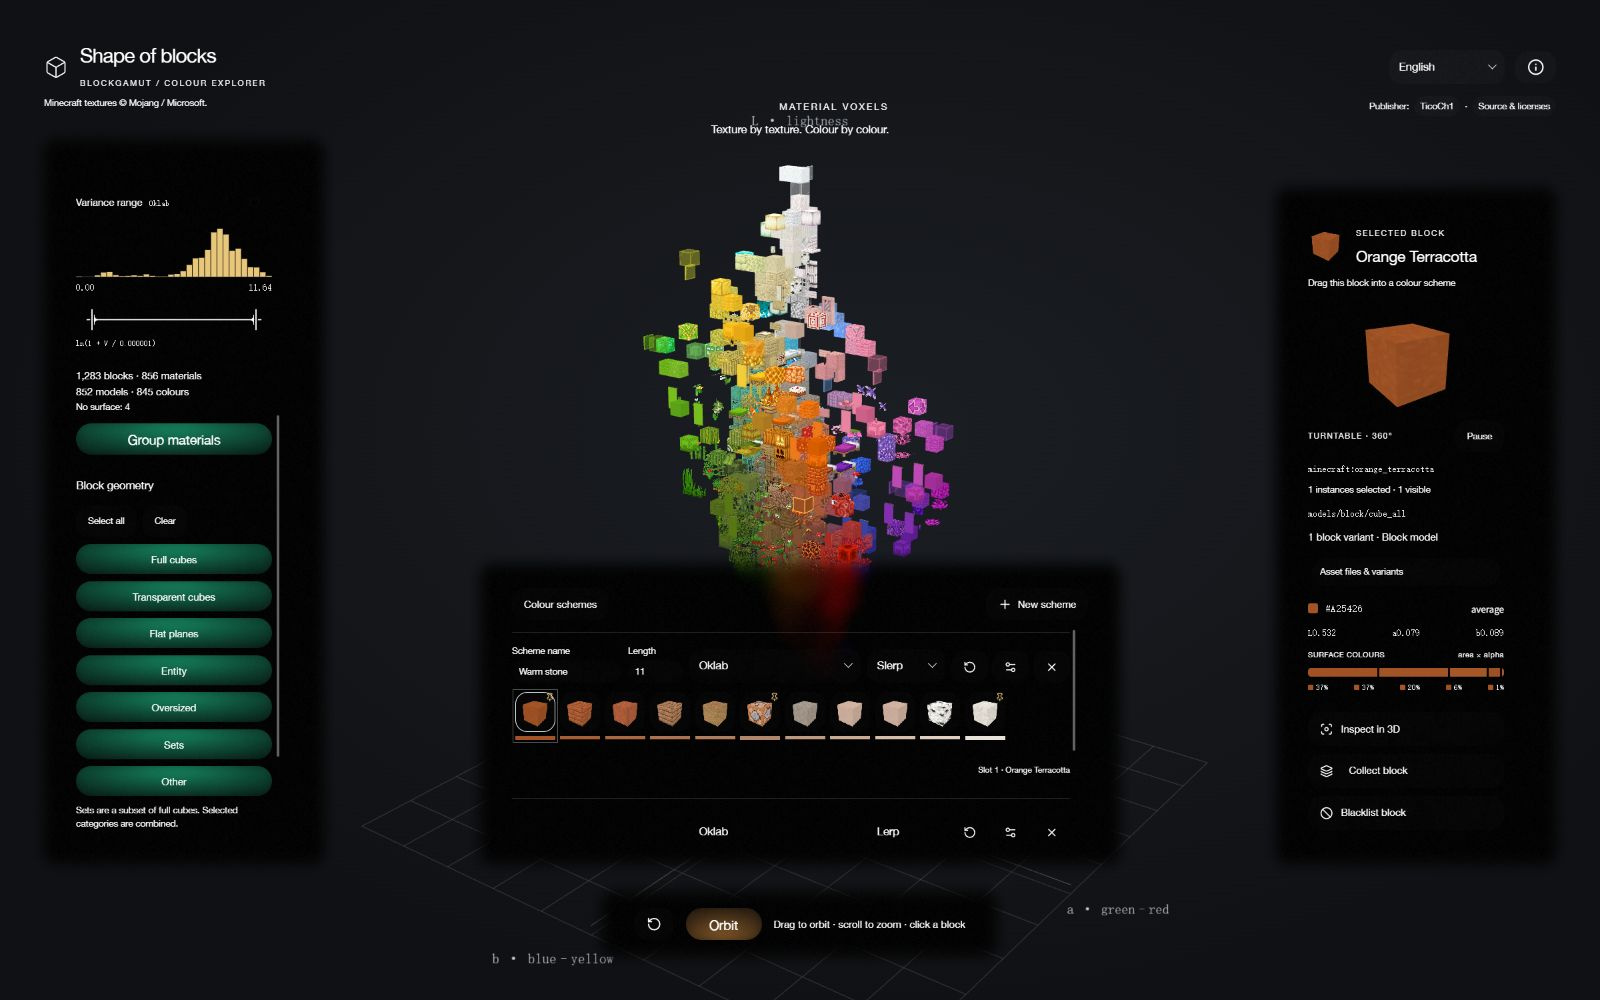
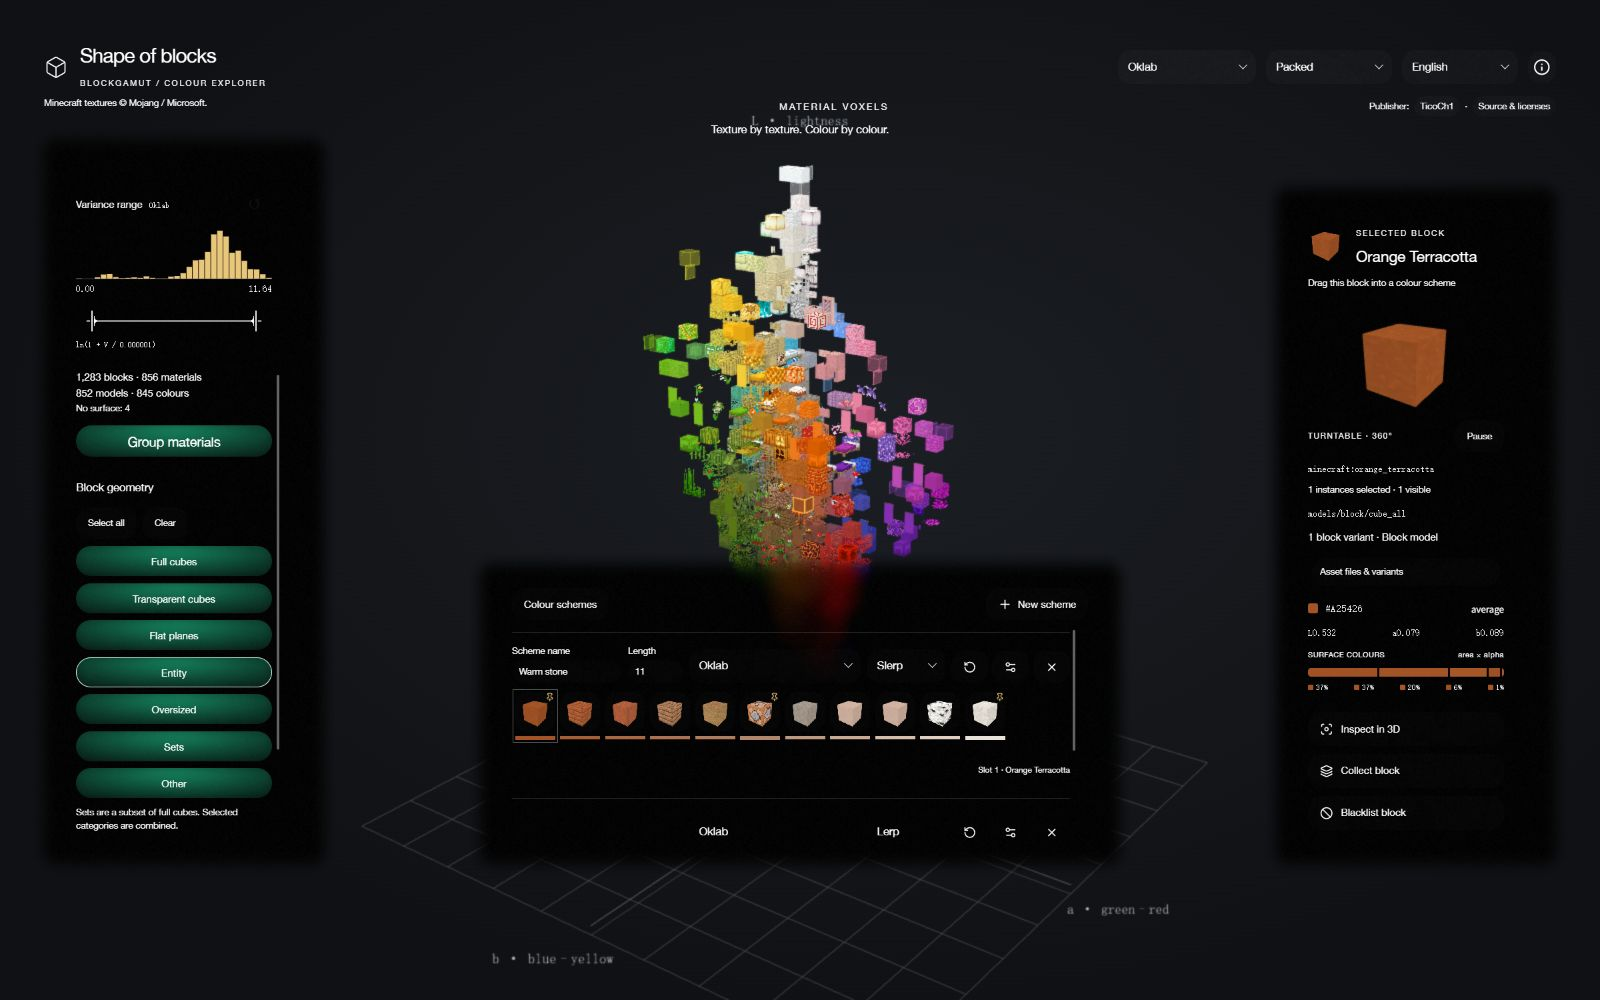
Move atlas selectors into header and remove camera toolbar

diff --git a/src/style.css b/src/style.css
@@ -26,7 +26,7 @@ html,body,#atlas,[data-form-glass-root]{height:100%;width:100%;margin:0}body{ove
 .surface-mixture{margin:12px 0}.mixture-label{display:flex;justify-content:space-between;gap:8px;font-size:7px;letter-spacing:.6px;color:var(--muted)}.mixture-strip{display:flex;gap:2px;height:9px;margin:8px 0 6px;border-radius:3px;overflow:hidden}.mixture-values{display:flex;justify-content:space-between;font:8px monospace;color:var(--muted)}.mixture-values span{display:flex;align-items:center;gap:3px}.mixture-values i{width:5px;height:5px;border-radius:1px}
 .air-symbol{height:100px;display:grid;place-items:center;color:var(--muted);font:12px monospace}
 .view-caption{position:absolute;top:96px;left:50%;transform:translateX(-50%);pointer-events:none;text-align:right}.view-caption>span{font-size:9px;letter-spacing:2px;color:var(--muted)}.view-caption p{font-size:11px;color:var(--muted);margin:8px 0}
-.view-dock{position:absolute!important;bottom:var(--gutter);left:50%;transform:translateX(-50%);display:flex;align-items:center;gap:12px;padding:16px 32px!important;white-space:nowrap;z-index:25}.view-dock>span{font-size:10px;color:var(--muted)}
+
 .scene-error,.empty-scene{position:absolute;left:30%;right:25%;top:45%;text-align:center;font-size:13px;line-height:2}.empty-scene button{margin-top:15px}.motion-notice{position:absolute;bottom:125px;left:50%;transform:translateX(-50%);font:10px monospace;color:#b8c4ce;text-align:center;pointer-events:none}
 .notes-dialog h3{font-size:13px;font-weight:500;margin:20px 0 8px}.notes-dialog p{font-size:12px;line-height:1.8;color:#bdc2ca;margin:10px 16px 10px 0}.notes-dialog .glass-link{font-size:11px;white-space:normal}
 .voxel-section-window{--section-height:min(420px,calc(100dvh - 240px));z-index:40;width:min(330px,calc(100dvw - 2 * var(--form-glass-outset,42px) - 16px));box-sizing:border-box;padding:32px!important}
@@ -38,8 +38,8 @@ html,body,#atlas,[data-form-glass-root]{height:100%;width:100%;margin:0}body{ove
 /* Intrinsic translations retain stable action widths. */
 .locale-label{display:inline-grid;vertical-align:middle;min-width:0;line-height:inherit;text-align:inherit}.locale-label>span{grid-area:1/1;min-width:0}.locale-label-size{visibility:hidden!important;pointer-events:none;user-select:none}.select-value>.locale-label{display:grid;width:100%}
 @media(max-height:800px) and (min-width:761px){.explorer{--controls-height:calc(100dvh - 340px);--inspector-height:calc(100dvh - 380px)}.turntable-viewport{height:90px}.panel-content{gap:7px}.inspector-content>.micro{display:none}}
-@media(max-width:1000px) and (min-width:761px){.control-panel,.block-inspector{width:250px}.view-dock>span{display:none}.brand h1{font-size:18px}}
-@media(max-width:760px){.explorer{--controls-height:max(88px,calc((100dvh - 508px) * .45));--inspector-height:max(88px,calc((100dvh - 508px) * .55))}.scene-header{align-items:start;gap:8px}.brand h1{font-size:16px}.brand span{font-size:6px;letter-spacing:.7px}.brand>svg{display:none}.header-actions{gap:6px}.language-control{width:100px}.project-notice{top:97px;font-size:7px;display:block}.project-notice>span:last-child{margin-top:3px}.project-notice .glass-link{font-size:7px}.control-panel{top:156px;left:var(--gutter);width:calc(100dvw - 2 * var(--gutter));padding:32px!important}.block-inspector{right:var(--gutter);bottom:140px;width:calc(100dvw - 2 * var(--gutter))}.panel-content,.inspector-content{padding-right:20px}.view-caption,.view-dock>span{display:none}.view-dock{gap:10px;padding:16px 32px!important}.turntable-viewport{height:90px}.empty-scene{top:53%;left:var(--gutter);right:var(--gutter);font-size:11px}.motion-notice{bottom:126px;max-width:220px;font-size:8px}.brand{max-width:135px}}
+@media(max-width:1000px) and (min-width:761px){.control-panel,.block-inspector{width:250px}.brand h1{font-size:18px}}
+@media(max-width:760px){.explorer{--controls-height:max(88px,calc((100dvh - 508px) * .45));--inspector-height:max(88px,calc((100dvh - 508px) * .55))}.scene-header{align-items:start;gap:8px}.brand h1{font-size:16px}.brand span{font-size:6px;letter-spacing:.7px}.brand>svg{display:none}.header-actions{gap:6px}.language-control{width:100px}.project-notice{top:97px;font-size:7px;display:block}.project-notice>span:last-child{margin-top:3px}.project-notice .glass-link{font-size:7px}.control-panel{top:156px;left:var(--gutter);width:calc(100dvw - 2 * var(--gutter));padding:32px!important}.block-inspector{right:var(--gutter);bottom:140px;width:calc(100dvw - 2 * var(--gutter))}.panel-content,.inspector-content{padding-right:20px}.view-caption{display:none}.turntable-viewport{height:90px}.empty-scene{top:53%;left:var(--gutter);right:var(--gutter);font-size:11px}.motion-notice{bottom:126px;max-width:220px;font-size:8px}.brand{max-width:135px}}
 
 /* One startup owner, with native texture cubes independent of WebGL resources. */
 .block-loader{position:fixed;inset:0;z-index:200;display:grid;place-items:center;background:radial-gradient(ellipse at 50% 44%,#20272a,#101316 65%);color:#e9ede8;padding:24px;box-sizing:border-box}
@@ -61,10 +61,10 @@ html,body,#atlas,[data-form-glass-root]{height:100%;width:100%;margin:0}body{ove
 .scheme-manager-heading{display:flex;justify-content:space-between;align-items:center;gap:8px}.scheme-manager-heading button{font-size:10px;gap:6px}.scheme-rows{padding:4px 18px 4px 0}.scheme-row{padding:12px 0;border-top:1px solid var(--line);margin-top:8px}.scheme-row-heading{display:flex;align-items:center;gap:6px;font-size:11px}.scheme-row-heading button{padding:6px;min-height:25px}
 .scheme-cells{display:flex;gap:5px;width:max-content;padding:9px 3px}.scheme-cell{width:40px;position:relative}.scheme-block>button{width:40px;height:40px;padding:4px;position:relative}.scheme-cell canvas{width:32px;height:32px;display:block;image-rendering:pixelated}.scheme-cell[data-selected=true]{outline:1px solid #ffffff60;outline-offset:2px}.scheme-cell[data-drop=true]{outline:1px solid #e8c67a;outline-offset:2px}.scheme-pin{position:absolute;right:1px;top:1px;color:#e8c67a}.scheme-target{height:3px;margin-top:4px;display:block}.scheme-row-actions{display:flex;align-items:center;gap:4px;flex-wrap:wrap}.scheme-row-actions button{font-size:8px;padding:5px 7px;min-height:25px}.scheme-row-actions>span{font-size:8px;color:var(--muted);margin-left:auto}.scheme-hint{font-size:9px;line-height:1.6;color:var(--muted);padding-right:18px;margin:5px 0}.scheme-settings-content{display:flex;flex-direction:column;gap:10px;padding-right:20px}.scheme-settings-content .glass-select{width:100%}
 @media(max-width:1100px) and (min-width:761px){.colour-schemes{width:calc(100dvw - 648px);min-width:220px;padding:24px!important}.scheme-manager-heading{flex-wrap:wrap}.scheme-manager-heading button{font-size:9px}.scheme-manager-heading span{display:none}}
-@media(max-width:760px){.colour-schemes{bottom:var(--gutter);width:calc(100dvw - 2 * var(--gutter));min-width:0;padding:16px 24px!important;--schemes-height:min(210px,calc(100dvh - 330px))}.view-dock{display:none}.scheme-manager-heading button{font-size:9px}.scheme-rows{padding-right:20px}.scheme-cell{width:36px}.scheme-block>button{width:36px;height:36px}.scheme-cell canvas{width:28px;height:28px}}
+@media(max-width:760px){.colour-schemes{bottom:var(--gutter);width:calc(100dvw - 2 * var(--gutter));min-width:0;padding:16px 24px!important;--schemes-height:min(210px,calc(100dvh - 330px))}.scheme-manager-heading button{font-size:9px}.scheme-rows{padding-right:20px}.scheme-cell{width:36px}.scheme-block>button{width:36px;height:36px}.scheme-cell canvas{width:28px;height:28px}}
 
-.scheme-mobile-orbit{display:none}
-@media(max-width:760px){.scheme-mobile-orbit{display:flex;gap:8px;align-items:center;margin-top:8px}.block-inspector{bottom:210px}.explorer{--controls-height:max(60px,calc((100dvh - 578px) * .45));--inspector-height:max(60px,calc((100dvh - 578px) * .55))}}
+
+@media(max-width:760px){.block-inspector{bottom:210px}.explorer{--controls-height:max(60px,calc((100dvh - 578px) * .45));--inspector-height:max(60px,calc((100dvh - 578px) * .55))}}
 
 .inspector-content>.drag-block-hint{display:block!important}.draggable-block{touch-action:none}
 
@@ -83,3 +83,9 @@ html,body,#atlas,[data-form-glass-root]{height:100%;width:100%;margin:0}body{ove
 .scheme-import{display:flex;align-items:center;gap:10px;margin:0 0 12px;font-size:11px}.scheme-import canvas{width:36px;height:36px;image-rendering:pixelated}.scheme-import small{display:block;margin-top:5px;font-size:9px;color:var(--muted)}
 
 @media(max-width:760px){.scheme-manager-dialog{padding:24px!important}.scheme-manager-dialog .form-glass-dialog-heading{gap:10px}.scheme-manager-dialog .form-glass-dialog-heading h2{font-size:18px}.scheme-manager-dialog .form-glass-dialog-heading button{font-size:10px;max-width:116px;min-width:0;white-space:normal}}
+
+/* Primary atlas choices live beside the language selector. */
+.atlas-controls{display:flex;align-items:center;gap:10px}.coordinate-control{width:138px}.arrangement-control{width:126px}.atlas-controls .glass-select{width:100%}
+.scene-header #notes-trigger{padding:6px 5px;min-width:28px}
+@media(max-width:1000px) and (min-width:761px){.header-actions,.atlas-controls{gap:8px}.coordinate-control{width:112px}.arrangement-control{width:104px}.language-control{width:100px}}
+@media(max-width:760px){.scene-header{display:grid;grid-template-columns:minmax(0,1fr) 90px 28px;gap:10px 8px;align-items:center}.header-actions{display:contents}.brand{grid-column:1;grid-row:1}.language-control{grid-column:2;grid-row:1;width:90px}#notes-trigger{grid-column:3;grid-row:1}.atlas-controls{grid-column:1/-1;grid-row:2;gap:8px}.coordinate-control,.arrangement-control{width:0;flex:1;min-width:0}.project-notice{top:150px}.control-panel{top:206px}.block-inspector{bottom:180px}.explorer{--controls-height:max(60px,calc((100dvh - 608px) * .45));--inspector-height:max(60px,calc((100dvh - 608px) * .55))}}

diff --git a/src/App.tsx b/src/App.tsx
@@ -10,7 +10,7 @@ import {LocaleLabel,useLocale,type Locale} from './i18n';
 import chineseNames from './blockNames.zh-CN.json';
 import {useCallback,useDeferredValue,useEffect,useMemo,useState} from 'react';
 import {GlassPanel,GlassButton,GlassLink,GlassInput,GlassProvider,GlassSelect,GlassSwitch,GlassScrollArea,GlassDialog,GlassDisclosure} from '@form-glass/react';
-import {Box,Check,ChevronRight,Info,Layers3,RotateCcw,Focus,Ban} from 'lucide-react';
+import {Box,Check,ChevronRight,Info,Layers3,Focus,Ban} from 'lucide-react';
 import {filterBlocks,groupMaterials,samplesFor,materialVariance} from './color.mjs';
 import {Scene} from './Scene';
 import {Turntable} from './Turntable';
@@ -37,7 +37,7 @@ export function App(){
 
  const [grouped,setGrouped]=useState(true),[focus,setFocus]=useState(0),[assetDetails,setAssetDetails]=useState(false);
  const [categories,setCategories]=useState<string[]>([...allModelClasses]),[category,setCategory]=useState('all'),[query,setQuery]=useState(''),[face,setFace]=useState('average'),[opaque,setOpaque]=useState(false),[tinted,setTinted]=useState(true);
- const [space,setSpace]=useState<Space>('oklab'),[variance,setVariance]=useState(false),[rotate,setRotate]=useState(false),[reset,setReset]=useState(0);
+ const [space,setSpace]=useState<Space>('oklab'),[variance,setVariance]=useState(false),[rotate,setRotate]=useState(false);
  const [schemeSelection,setSchemeSelection]=useState(false);
  const [selected,setSelected]=useState('minecraft:orange_terracotta'),[collection,setCollection]=useState<string[]>([]),[blacklist,setBlacklist]=useState<string[]>([]);
  const [varianceRanges,setVarianceRanges]=useState<Partial<Record<Space,[number,number]>>>({});
@@ -77,14 +77,13 @@ export function App(){
  const bootStage=!catalog||!resources?'Loading Minecraft release materials…':'Placing blocks in colour space…';
  return view(<GlassProvider theme="dark" refractionEnabled={false}>
   <main className="explorer" aria-hidden={booting} {...(booting?{inert:''} as any:{})}>
-   <div className="world-view"><Scene catalogReady={!!catalog} onReady={reportReady} onStartupError={setSceneError} arrangement={arrangement} voxelSection={voxelSection} onVoxelData={setVoxelData} samples={samples} space={space} variance={variance} hull={false} reference={false} rotate={rotate} slice={false} lightness={.65} resources={resources} assetError={assetError} selected={sceneActive?.id||''} reset={reset} focus={focus} onSelect={pick} onRotateStop={stopOrbit} onModelStats={setModelStats}/></div>
-   <header className="scene-header"><div className="brand"><Box size={24} strokeWidth={1.2}/><div><h1>Shape of blocks</h1><span>BLOCKGAMUT / COLOUR EXPLORER</span></div></div><div className="header-actions"><div className="language-control"><GlassSelect label="Language" value={locale} onChange={v=>setLocale(v as Locale)} options={[{value:"en",label:"English"},{value:"zh-CN",label:"简体中文"}]}/></div><GlassButton id="notes-trigger" aria-expanded={help} aria-haspopup="dialog" aria-label="About the data and method" onClick={()=>setHelp(true)}><Info size={17}/></GlassButton></div></header>
+   <div className="world-view"><Scene catalogReady={!!catalog} onReady={reportReady} onStartupError={setSceneError} arrangement={arrangement} voxelSection={voxelSection} onVoxelData={setVoxelData} samples={samples} space={space} variance={variance} hull={false} reference={false} rotate={rotate} slice={false} lightness={.65} resources={resources} assetError={assetError} selected={sceneActive?.id||''} reset={0} focus={focus} onSelect={pick} onRotateStop={stopOrbit} onModelStats={setModelStats}/></div>
+   <header className="scene-header"><div className="brand"><Box size={24} strokeWidth={1.2}/><div><h1>Shape of blocks</h1><span>BLOCKGAMUT / COLOUR EXPLORER</span></div></div><div className="header-actions"><div className="atlas-controls"><div className="coordinate-control"><GlassSelect label="Coordinate space" value={space} onChange={value=>setSpace(value as Space)} options={spaces.map(({value,label})=>({value,label}))}/></div><div className="arrangement-control"><GlassSelect label="Arrangement" value={arrangement} onChange={v=>setArrangement(v as Arrangement)} options={arrangements}/></div></div><div className="language-control"><GlassSelect label="Language" value={locale} onChange={v=>setLocale(v as Locale)} options={[{value:"en",label:"English"},{value:"zh-CN",label:"简体中文"}]}/></div><GlassButton id="notes-trigger" aria-expanded={help} aria-haspopup="dialog" aria-label="About the data and method" onClick={()=>setHelp(true)}><Info size={17}/></GlassButton></div></header>
    <p className="project-notice"><span>Minecraft textures © Mojang / Microsoft.</span><span>Publisher: <GlassLink href="https://github.com/TicoCh1" target="_blank" rel="noreferrer">TicoCh1</GlassLink> · <GlassLink href="https://github.com/TicoCh1/BlockGamut" target="_blank" rel="noreferrer">Source &amp; licenses</GlassLink></span></p>
    {catalog&&<>
     <GlassPanel id="explorer-controls" className="control-panel"><GlassScrollArea label="Explorer controls" maxHeight="var(--controls-height)" viewportClassName="control-viewport"><div className="panel-content">
-     <div className="section-label"><span>COLOUR SPACE</span><span>01</span></div><GlassSelect label="Coordinate space" value={space} onChange={value=>setSpace(value as Space)} options={spaces.map(({value,label})=>({value,label}))}/><GlassSwitch label="Material variance" checked={variance} onChange={setVariance}/>
+     <GlassSwitch label="Material variance" checked={variance} onChange={setVariance}/>
      <div className="section-label divider"><span>VOXELS</span><span>1 × 1 × 1</span></div>
-     <GlassSelect label="Arrangement" value={arrangement} onChange={v=>setArrangement(v as Arrangement)} options={arrangements}/>
      <p className="micro muted arrangement-summary">{arrangement==='spaced'?'One-block gap':arrangement==='packed'?'Touching native models':'Nearest fill · each material ≥ 1 cell'}</p>
      {arrangement!=='spaced'&&<><p className="voxel-count" role="status">{grid?`${visibleCells.length.toLocaleString()} / ${grid.cells.length.toLocaleString()} cells visible`:'Preparing voxel grid…'}</p>
       <GlassButton id="voxel-section-trigger" className="disclosure" aria-expanded={voxelSection.enabled} aria-controls="voxel-section-window" onClick={()=>updateSection({enabled:!voxelSection.enabled,preview:false})}><span>Voxel section</span><ChevronRight size={14}/></GlassButton></>}
@@ -110,9 +109,8 @@ export function App(){
     {!active&&<GlassPanel id="air-inspector" className="block-inspector air-inspector"><GlassScrollArea label="Selected block details" maxHeight="var(--inspector-height)" viewportClassName="inspector-viewport"><div className="inspector-content"><div className="inspector-heading"><Box size={24}/><div><span className="eyebrow">SELECTED BLOCK</span><h2>Air</h2></div></div><div className="air-symbol" aria-hidden="true">∅</div><div className="block-id">minecraft:air</div><p className="micro muted">No block selected</p></div></GlassScrollArea></GlassPanel>}
 
    </>}
-   {catalog&&<ColourSchemes blocks={localizedBlocks} resources={resources} selected={active} space={space} categories={categories} collection={collection} blacklist={blacklist} onPick={pickScheme} rotate={rotate} onRotate={setRotate} onReset={()=>setReset(v=>v+1)}/>}
+   {catalog&&<ColourSchemes blocks={localizedBlocks} resources={resources} selected={active} space={space} categories={categories} collection={collection} blacklist={blacklist} onPick={pickScheme}/>}
    <div className="view-caption"><span>{arrangement==='spaced'?'VANILLA BLOCK MODELS':'MATERIAL VOXELS'}</span><p>Texture by texture. Colour by colour.</p></div>
-   <GlassPanel className="view-dock"><GlassButton onClick={()=>setReset(v=>v+1)} aria-label="Reset camera"><RotateCcw size={15}/></GlassButton><GlassSwitch label="Orbit" checked={rotate} onChange={setRotate}/><span>Drag to orbit · scroll to zoom · click a block</span></GlassPanel>
 
   </main>
   {booting&&<BlockLoader stage={bootStage} error={bootError}/>}

diff --git a/src/ColourSchemes.tsx b/src/ColourSchemes.tsx
@@ -40,7 +40,7 @@ function SchemeRow({scheme,blocks,resources,collection,blacklist,onChange,onDele
  </div>);
 }
 
-export function ColourSchemes({blocks,resources,selected,space,categories,collection,blacklist,onPick,rotate,onRotate,onReset}:{blocks:Block[];resources:ModelResources|null;selected:Block|undefined;space:Space;categories:string[];collection:string[];blacklist:string[];onPick:(id:string)=>void;rotate:boolean;onRotate:(v:boolean)=>void;onReset:()=>void}){
+export function ColourSchemes({blocks,resources,selected,space,categories,collection,blacklist,onPick}:{blocks:Block[];resources:ModelResources|null;selected:Block|undefined;space:Space;categories:string[];collection:string[];blacklist:string[];onPick:(id:string)=>void}){
  const {view,t}=useLocale();
  const [schemes,setSchemes]=useState<Scheme[]>(()=>JSON.parse(localStorage.getItem('block-gamut-schemes')||'[]',(_key,value)=>value==='Infinity'?Infinity:value).map((s:Scheme)=>s.tiles?s:{...s,tiles:schemeCells(s,blocks,{collection,blacklist}).map(c=>c.id||c.block?.id||null)}));
  const [settings,setSettings]=useState<string|null>(null),[expanded,setExpanded]=useState(true),[mobileOpen,setMobileOpen]=useState(false);
@@ -55,7 +55,6 @@ export function ColourSchemes({blocks,resources,selected,space,categories,collec
  return view(<>
   <GlassPanel id="colour-schemes" className="colour-schemes" style={{zIndex:26}}>
    <div className="scheme-manager-heading"><GlassButton onClick={()=>window.matchMedia('(max-width:760px)').matches?setMobileOpen(true):setExpanded(v=>!v)} aria-expanded={expanded}>Colour schemes</GlassButton><GlassButton aria-label="New colour scheme" onClick={add}><Plus size={14}/><span>New scheme</span></GlassButton></div>
-   <div className="scheme-mobile-orbit"><GlassButton aria-label="Reset camera" onClick={onReset}><RotateCcw size={13}/></GlassButton><GlassSwitch label="Orbit" checked={rotate} onChange={onRotate}/></div>
    {expanded&&schemes.length>0&&<GlassScrollArea className="scheme-desktop-rows" label="Colour schemes" maxHeight="var(--schemes-height)"><div className="scheme-rows">{schemes.map(s=><SchemeRow key={s.id} scheme={s} blocks={blocks} resources={resources} collection={collection} blacklist={blacklist} onChange={update=>change(s.id,update)} onDelete={()=>setSchemes(v=>v.filter(x=>x.id!==s.id))} onSettings={()=>setSettings(s.id)} onPick={onPick}/>)}</div><p className="scheme-hint">Click to pin or unpin. Drag to reorder; drag out to remove. Refresh fills unpinned slots.</p></GlassScrollArea>}
   </GlassPanel>
   <GlassDialog title="Colour schemes" className="scheme-manager-dialog" open={mobileOpen} onOpenChange={setMobileOpen} closeLabel="Close colour schemes">{selected&&<DraggableBlock id={selected.id} name={selected.name} className="scheme-import"><BlockThumbnail id={selected.id} resources={resources}/><span>{selected.name}<small>Drag selected block into a slot</small></span></DraggableBlock>}<GlassScrollArea label="Colour schemes" maxHeight="55dvh"><div className="scheme-rows">{schemes.map(s=><SchemeRow key={s.id} scheme={s} blocks={blocks} resources={resources} collection={collection} blacklist={blacklist} onChange={update=>change(s.id,update)} onDelete={()=>setSchemes(v=>v.filter(x=>x.id!==s.id))} onSettings={()=>{setMobileOpen(false);setSettings(s.id);}} onPick={onPick}/>)}</div><GlassButton onClick={add}>New scheme</GlassButton></GlassScrollArea></GlassDialog>

diff --git a/README.md b/README.md
@@ -14,7 +14,7 @@ Created by [TicoCh1](https://github.com/TicoCh1). Minecraft textures © Mojang /
 
 ## Explore eight colour spaces
 
-Choose **Coordinate space** to compare perceptual lightness, RGB channels or hue-based relationships. Every view uses the same selected release's materials and preserves the numerical colour values shown in the inspector.
+Choose **Coordinate space** in the upper-right header, beside **Arrangement** and the language selector, to compare perceptual lightness, RGB channels or hue-based relationships. Every view uses the same selected release's materials and preserves the numerical colour values shown in the inspector.
 
 | Oklab | sRGB |
 | --- | --- |
@@ -39,6 +39,8 @@ White glass correctly has zero variance on this white reference background.
 ![Red stained glass and its channel variances after compositing against white](media/screenshots/30-glass-variance.jpg)
 
 ## Choose a block arrangement
+
+Use **Arrangement** in the upper-right header.
 
 - **Spaced** leaves at least one block of clearance between native models.
 - **Packed** places models on a lattice while reserving their actual footprint.
@@ -146,13 +148,15 @@ Select **My blacklist** in the Block list filter to view excluded blocks. Select
 
 ## Camera, language and layout
 
-Drag the scene to orbit, scroll to zoom, enable automatic **Orbit**, or use **Reset camera** to return to the overview. The language selector switches between English and Simplified Chinese and remembers the selection on that browser.
+Drag the scene to orbit and scroll to zoom. The bottom camera toolbar has been removed; the selected block retains its separate rotating preview. The language selector switches between English and Simplified Chinese and remembers the selection on that browser.
 
 Panels adapt to the viewport and reserve space for their feathered edges. Longer content uses themed scrollbars inside each panel. Dropdowns, resource disclosures and the information dialog share the same glass material and sequential disappear → shell motion → appear transitions. The section window supports pointer dragging and arrow-key movement, stays within the viewport and preserves live section preview while its position slider is dragged. Escape closes the information dialog and returns focus to its trigger.
 
 | Simplified Chinese | Data and method notes |
 | --- | --- |
 | ![Simplified Chinese interface](media/screenshots/34-glass-chinese.jpg) | ![Built-in data and method notes](media/screenshots/35-glass-about.jpg) |
+
+<img src="media/screenshots/44-header-mobile.jpg" alt="Colour space and arrangement selectors wrap beneath the header on narrow screens" width="360">
 
 <img src="media/screenshots/40-schemes-mobile.jpg" alt="Compact layout with bounded controls and inspector" width="360">
 
